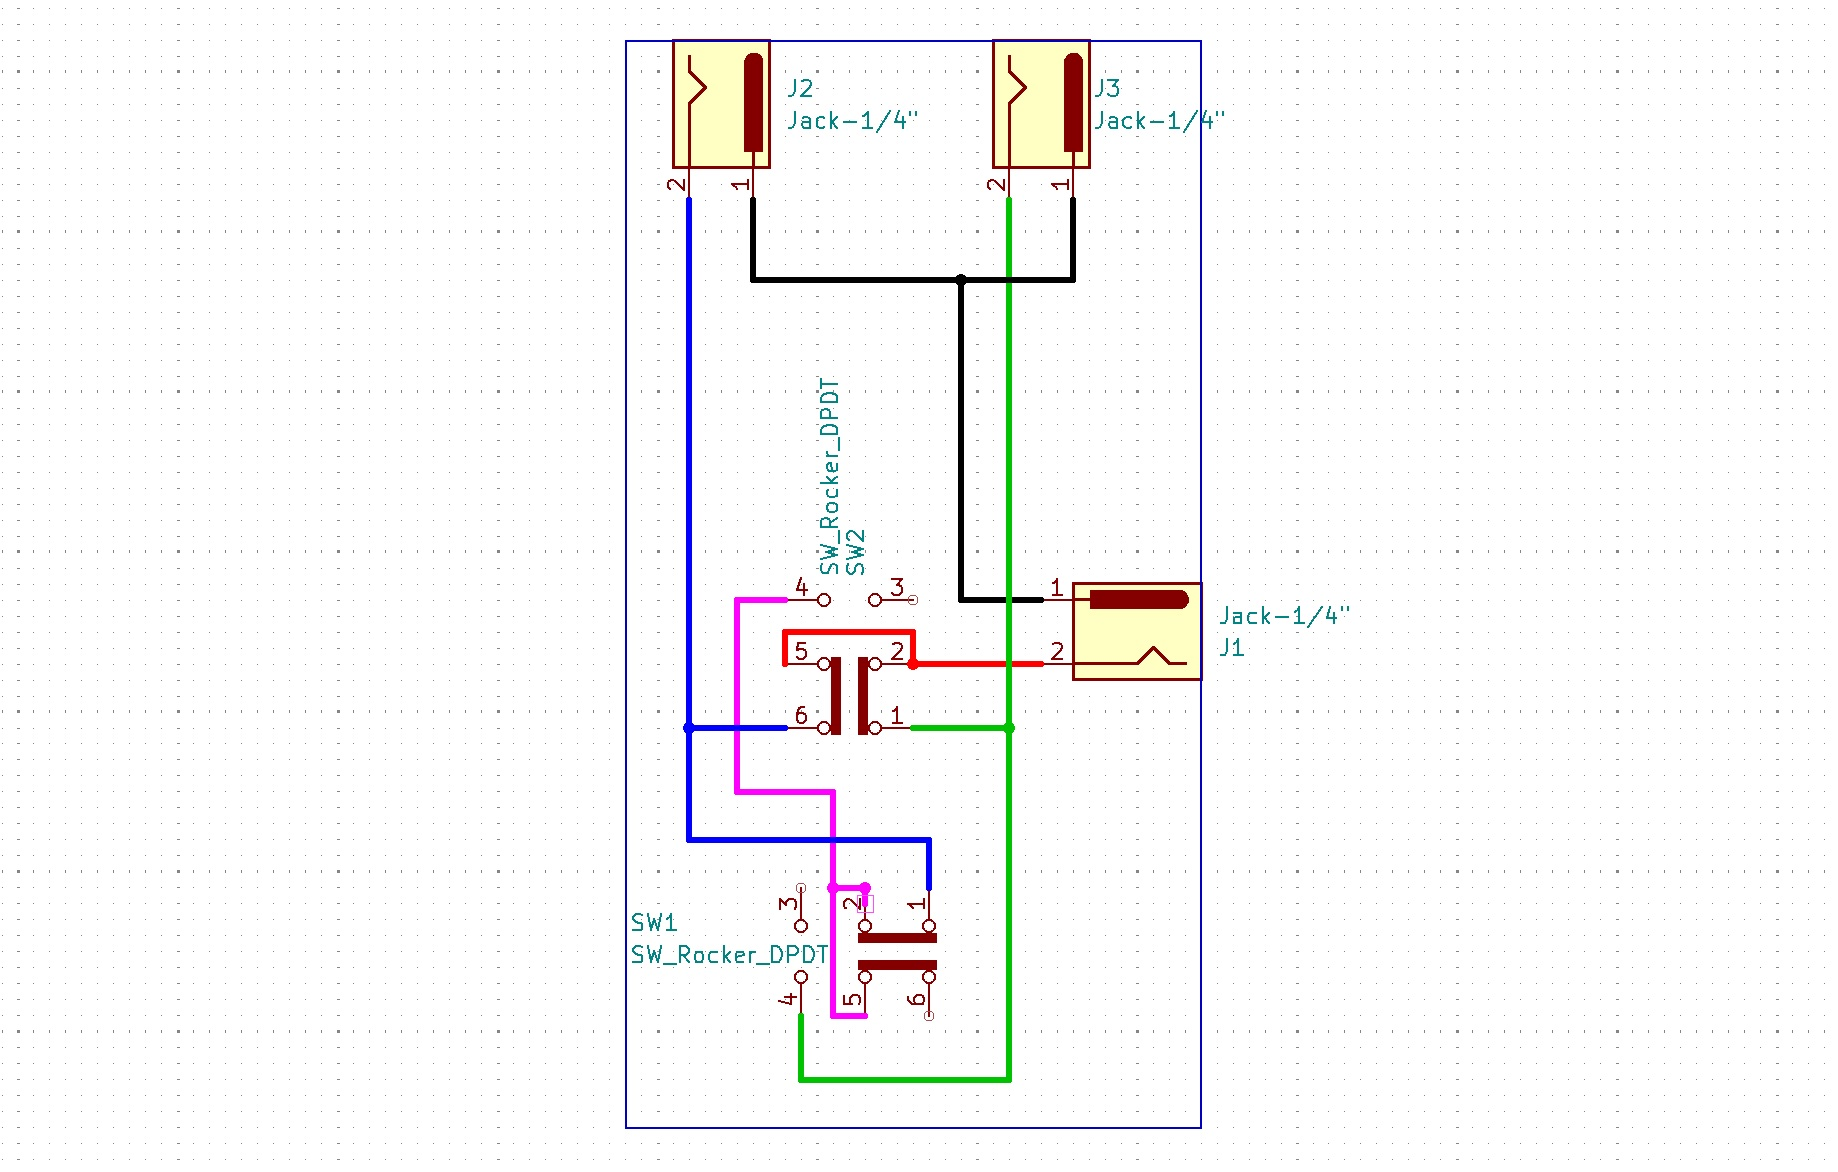
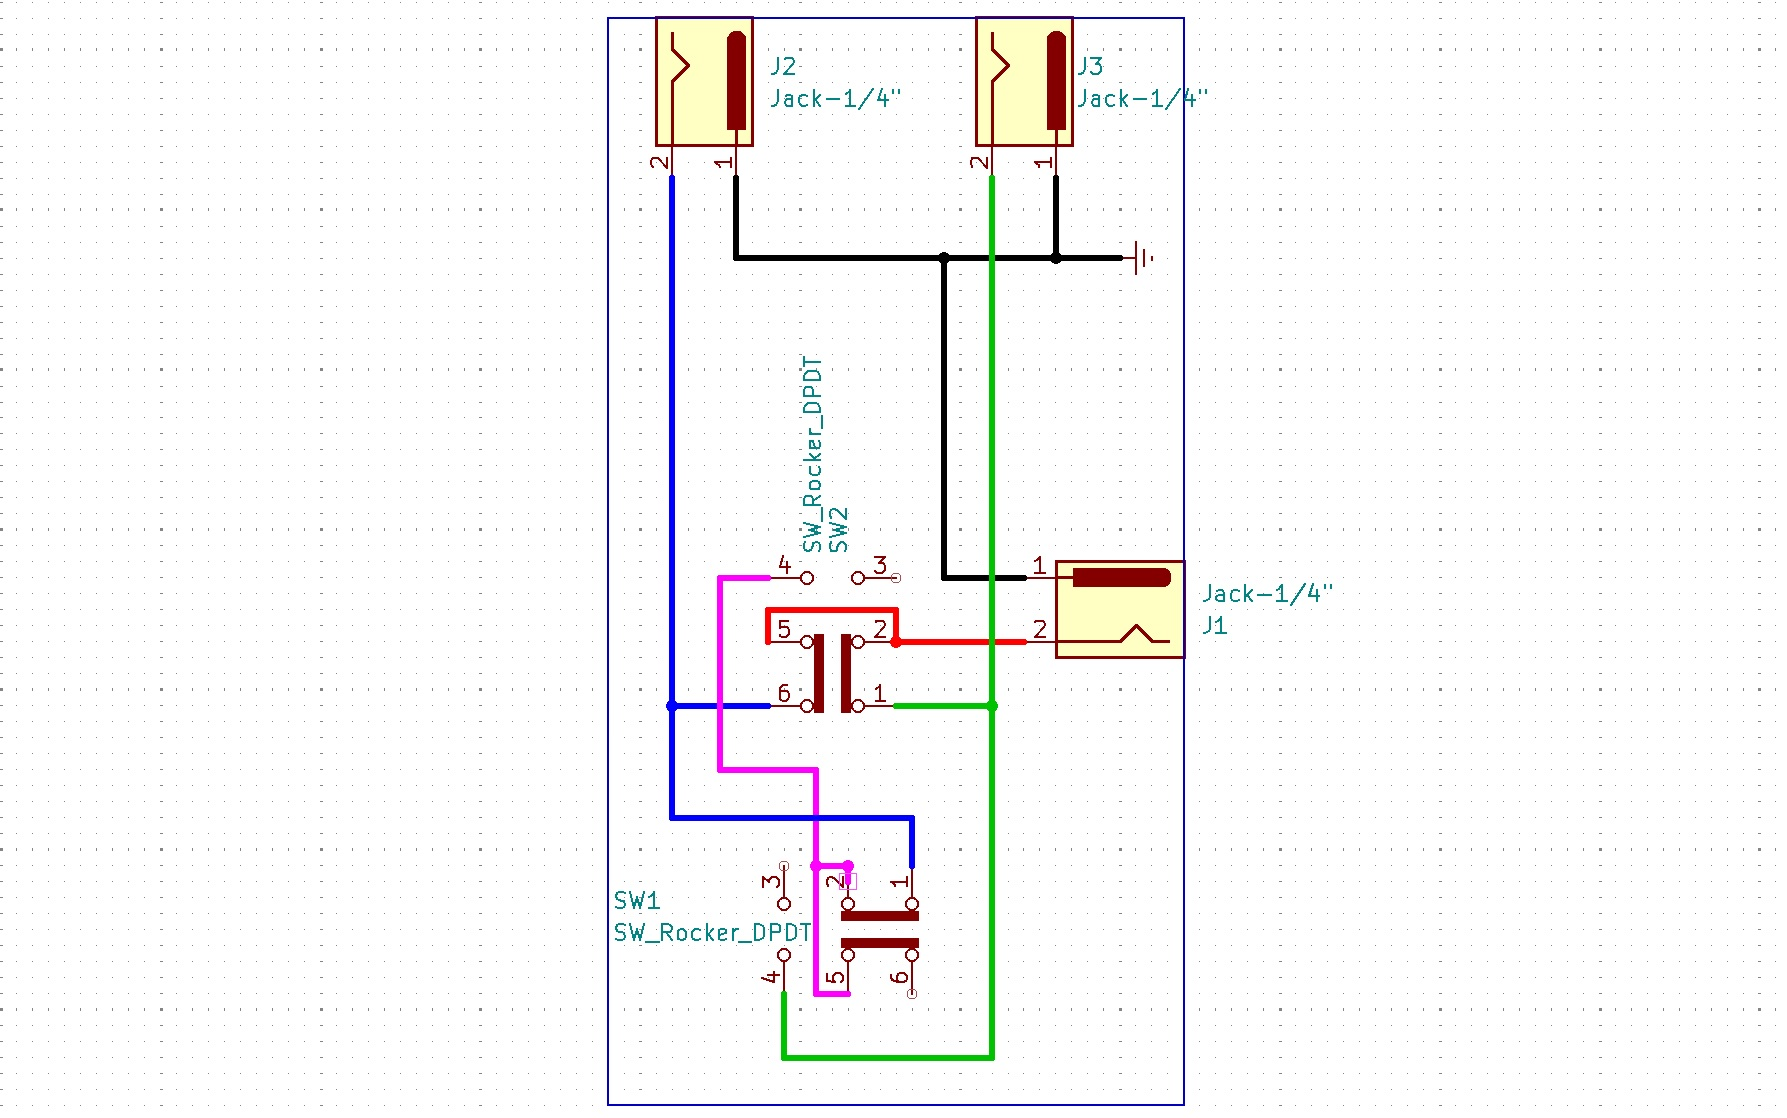
update pedal for gnd

Changed region(s): [[0.3386, 0.0, 0.7387, 0.9732]]

diff --git a/_posts/2025-03-24-building-a-guitar-aby-box.md b/_posts/2025-03-24-building-a-guitar-aby-box.md
@@ -45,21 +45,21 @@ Because of the way the switches contacts move, the wiring may appear "reversed",
 
 ## Steps
 
-1) Drill holes for jacks, one in right side, 2 in top (yes I mis-drilled a hole in the bottom, but used the enclosure anyways!). Can also pre-drill round holes for the step following.
+1) Drill holes for jacks, one in right side, 2 in top. Can also pre-drill round holes for the step following. I mis-drilled a hole in the bottom, so put a bolt through this as an over-the-top way of grounding to the enclosure.
 
 ![](/assets/images/2025-03-24-building-a-guitar-aby-box/20250126_191951.JPG)
 
-2) Create rectangular slots in top for rocker switches. I used a mill which is a little overkill, but a dremel or other cutting tool can do the job.
+2) Create rectangular slots in top for rocker switches. I used a mill here, but a dremel or other cutting tool can do the job.
 
 ![](/assets/images/2025-03-24-building-a-guitar-aby-box/2.jpg)
 
 3) Install components and wire up according to the schematic.
 
-![](/assets/images/2025-03-24-building-a-guitar-aby-box/20250324_081355901_iOS.jpg)
+![](/assets/images/2025-03-24-building-a-guitar-aby-box/20250401_045523795_iOS.jpg)
 
 On the outside of the enclosure I also crudely drew the signal paths, and added paint to the ends of the rockers, to give a clean visual indicator of the switch positions. Most switches use footswitches and LED's, where here with painted rockers we get something thats still operated by foot, still indicates status, but doesn't need to use another spot on the power supply!
 
-![](/assets/images/2025-03-24-building-a-guitar-aby-box/20250324_082947048_iOS.jpg)
+![](/assets/images/2025-03-24-building-a-guitar-aby-box/20250402_045538076_iOS.jpg)
 
 
 
